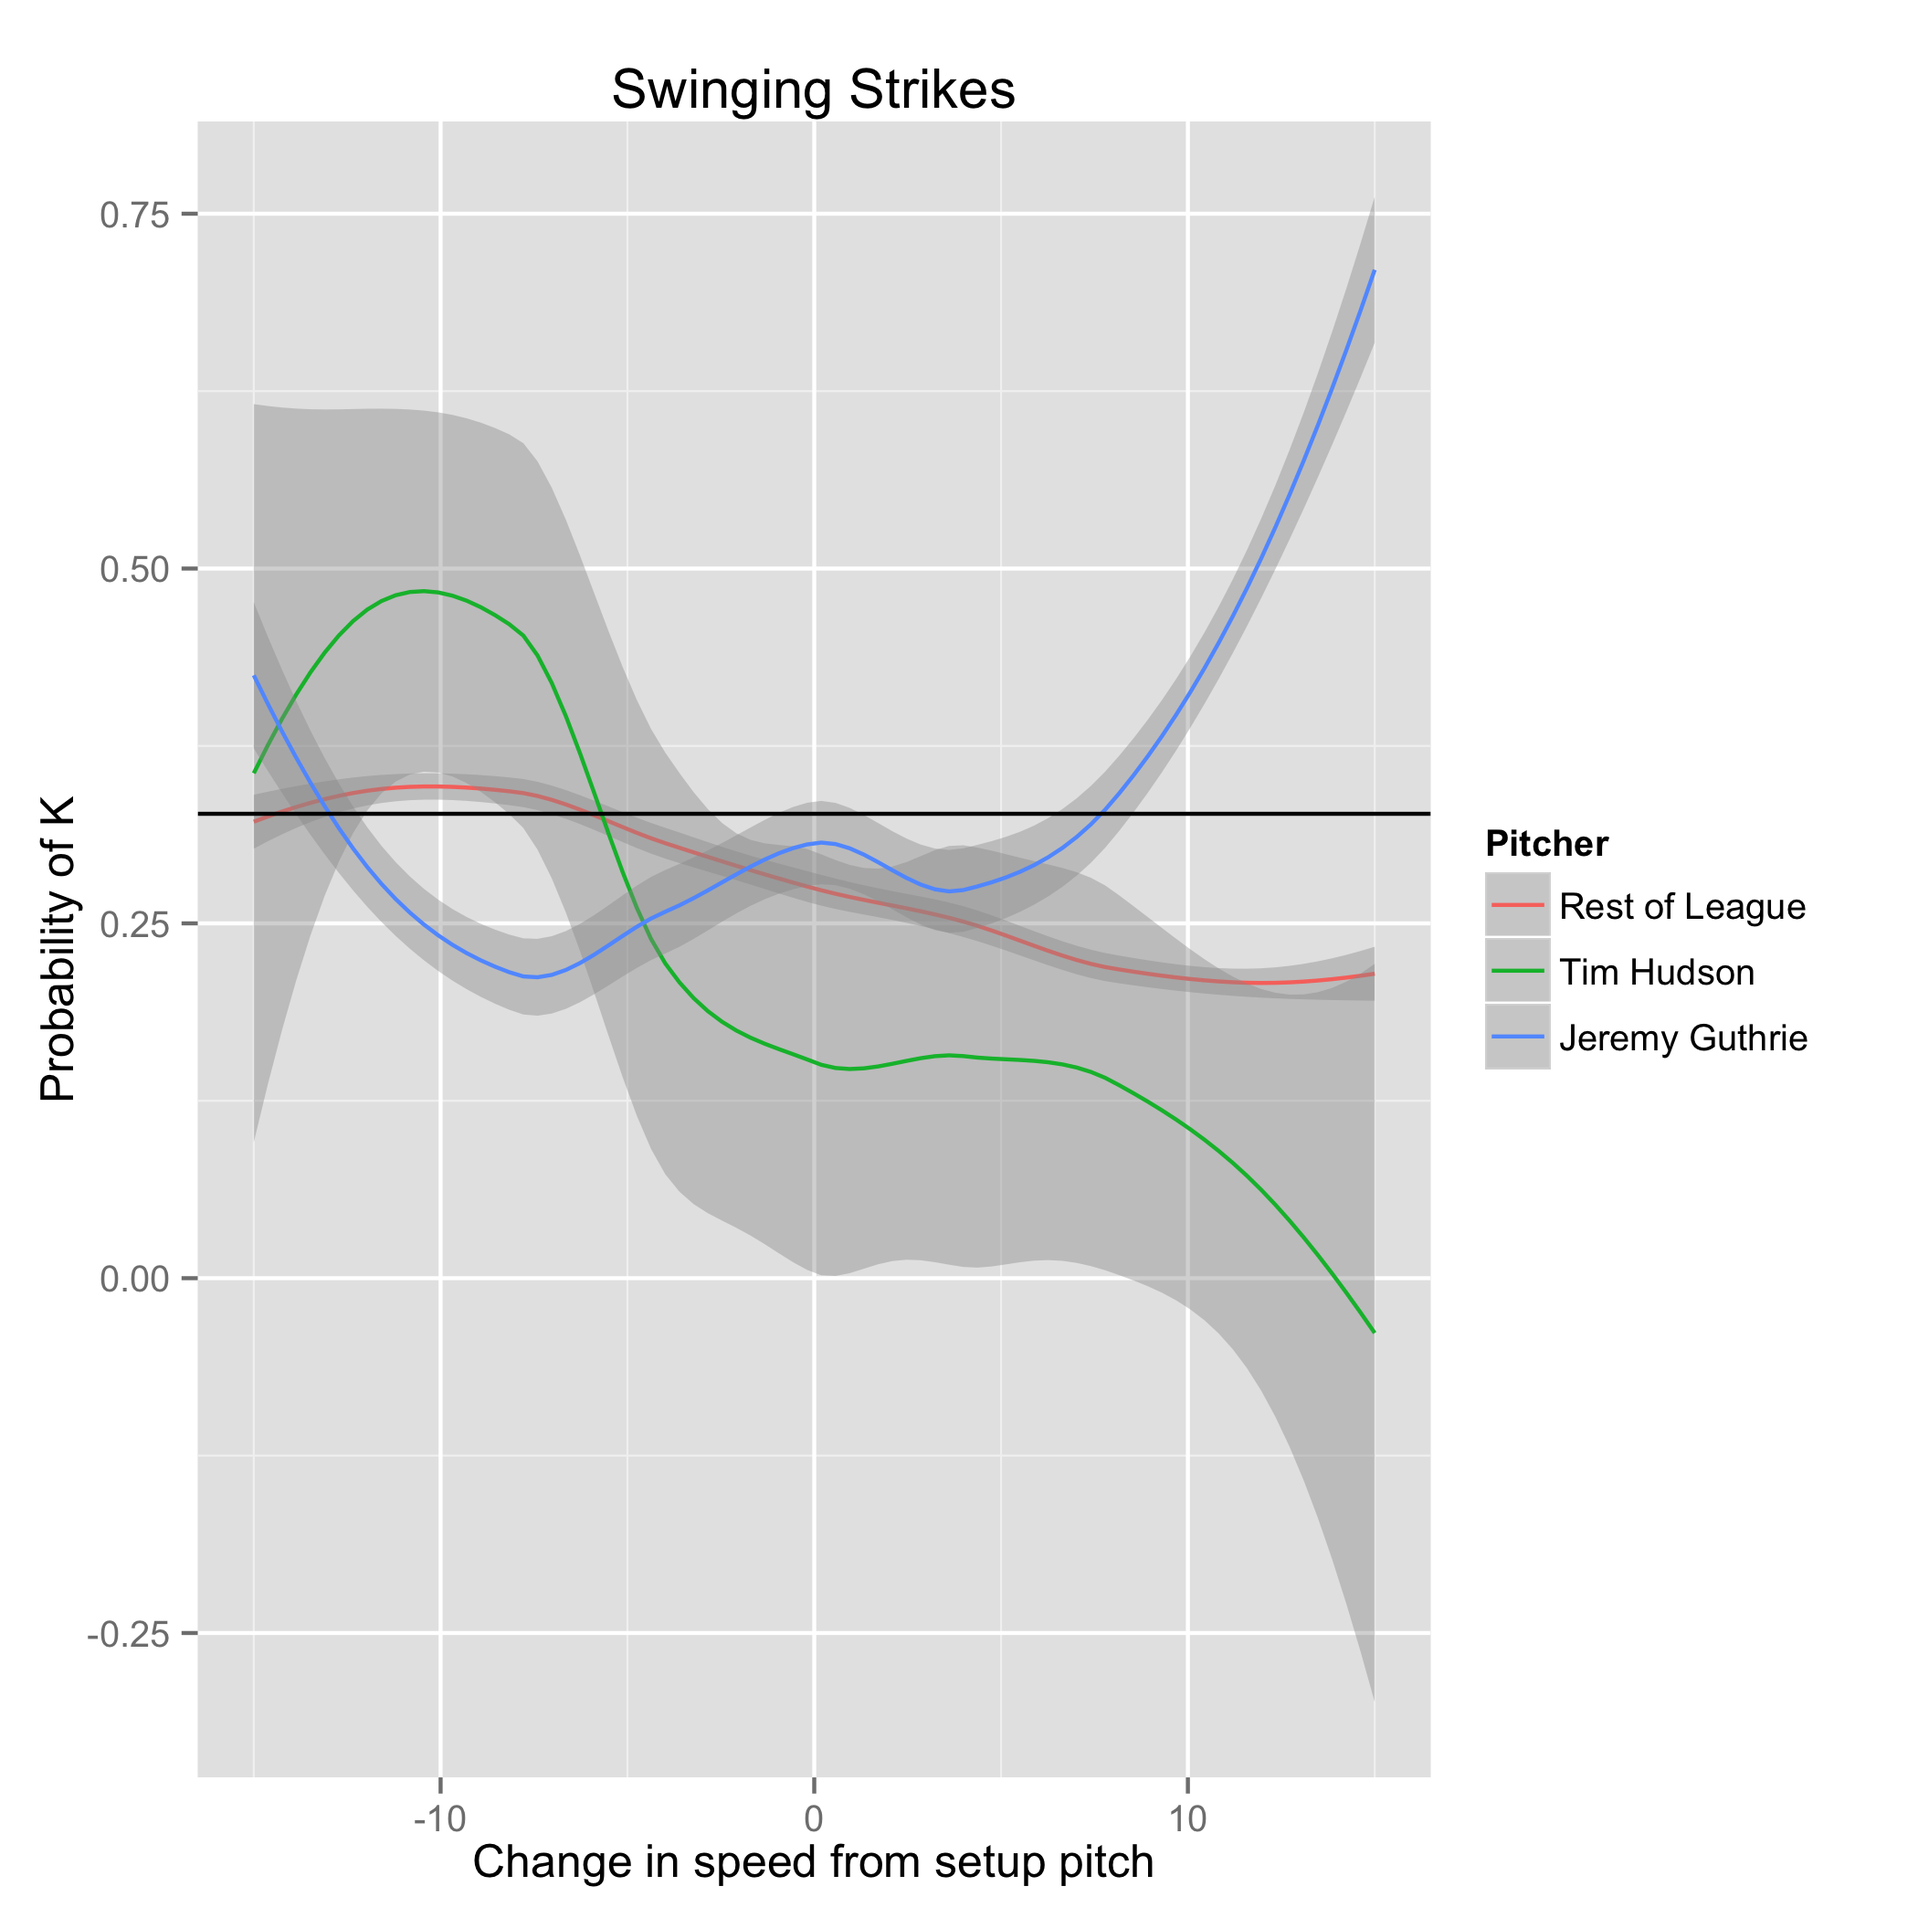
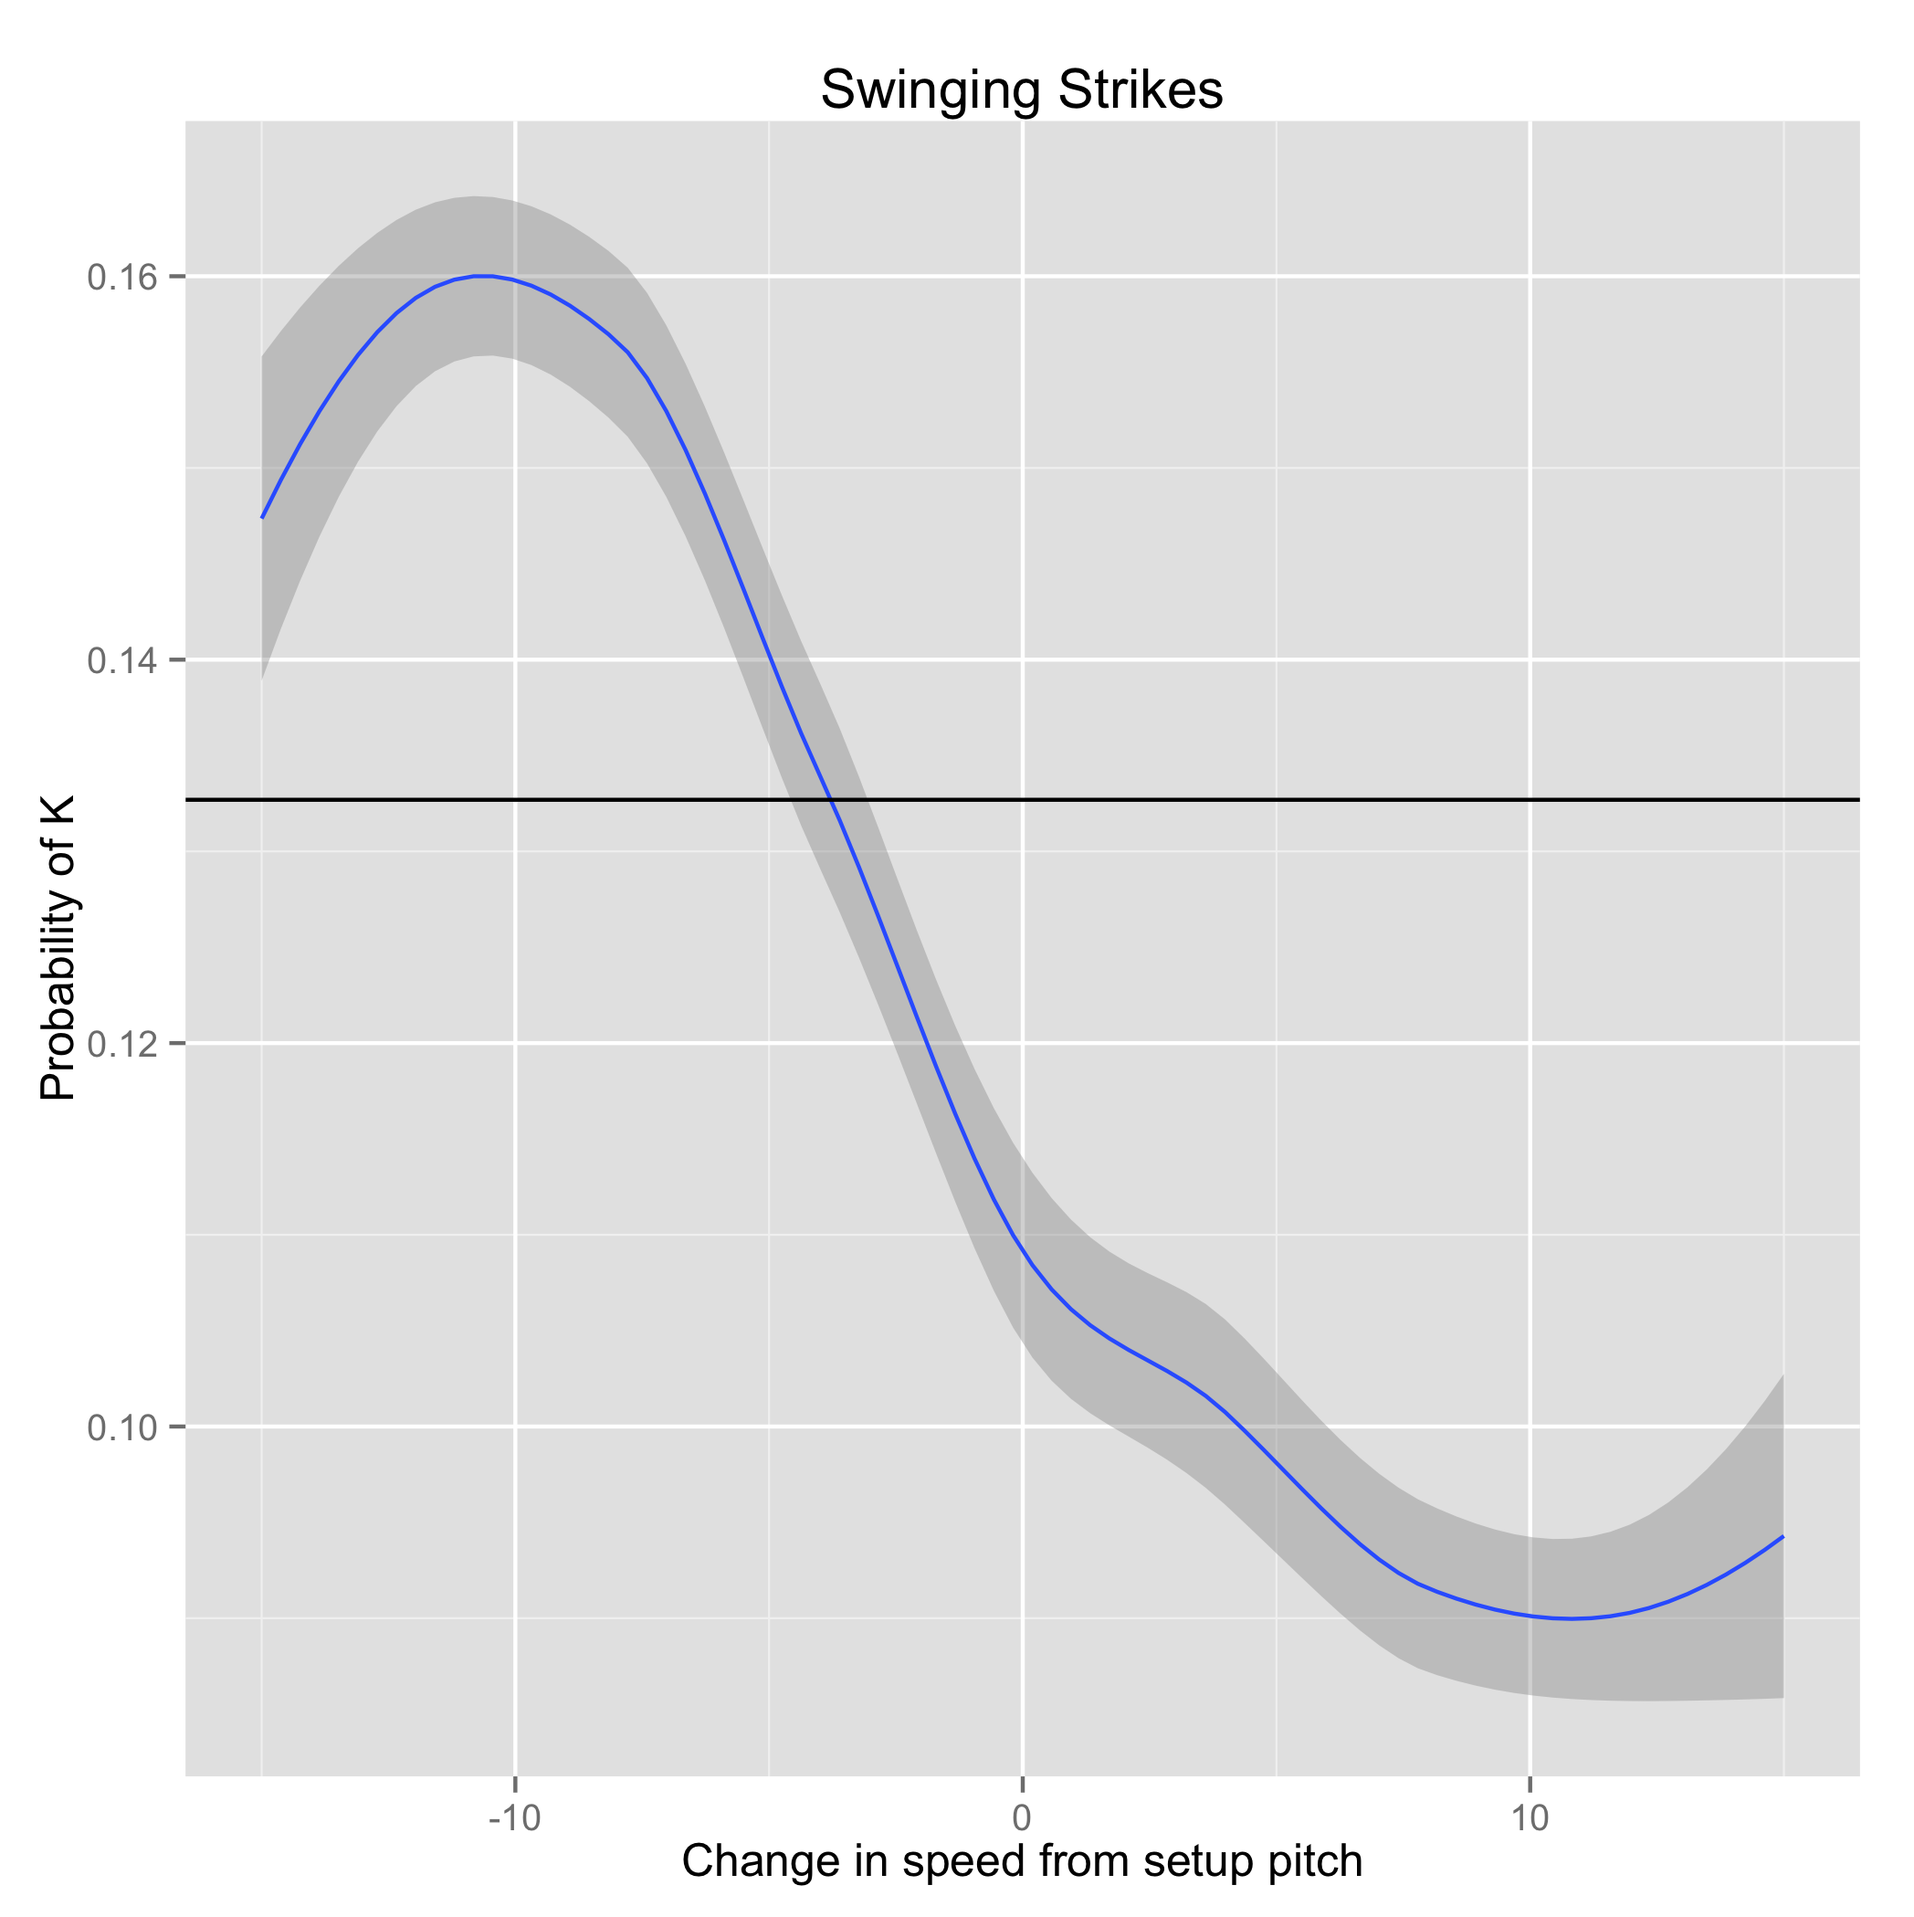
Tweaks to readme.

diff --git a/README.md b/README.md
@@ -19,7 +19,9 @@ This is an unusual strategy to put it mildly. Even in rock paper scissors, where
 
 In this case, Bumgarner knew his opponents tendencies and the psychology of the moment and used that knowledge against him masterfully to get an out without throwing a ball that it was possible to put in play.
 
-Such strategic concerns are an underexplored application of PitchFx data. Each at-bat is not only a sequence of independent pitches, but in fact a whole strategic game between pitcher and batter, which may extend back years. Conventional wisdom says that pitchers are most effective when changing speeds, and forcing the hitter to change his eye level by working inside and outside, and up and down in the zone.
+Such strategic concerns are an underexplored application of PitchFx data. Each at-bat is not only a sequence of independent pitches, but in fact a whole strategic game between pitcher and batter, which may extend back years. Conventional wisdom says that pitchers are most effective when changing speeds, and forcing the hitter to change his eye level by working inside and outside, and up and down in the zone. In fact, OVERALL, this seems to be true. The chart below shows the likelihood of getting a swinging strike based only speed changes, basically the best way to get a swing and miss is to take something off relative to the preceding pitch (ignoring all other factors).
+
+![Chart of effect on speed change](plots/speed_change_swinging.png)
 
 Both the pitcher and batter try to anticipate each others' expectations in order to guess (hitter) or defy (pitcher) expectations of their adversary. Because of this strategic element, the game theory is extremely rich, and pitchers and batters presumably exploit all kinds of information to try and gain an edge in this strategic battle. This information may include, previous at bats against a given adversary, previous pitches in the current at bat, the pitcher's strategy against other hitters. In the Bumgarner vs. Perez atbat, Bumgarner apparently exploited the energy of the scenario, along with an apparently detailed understanding of Perez's tendencies to put away a dangerous hitter with virtually no risk of giving up a hit.
 
@@ -47,6 +49,10 @@ We can do a similar exercise for called strikes, to see if there's any evidence 
 ![Effect of setup pitches on called strike probabilities](plots/called_k_by_pitch_type_setup.png)
 
 In this chart, aside from some obvious data sparsity issues, note, there's not much difference within the columns, meaning pretty much that the pitcher has to get it in the halo around the edges of the strikezone to get a called strike, and once that's accomplished, what the last pitch was doesn't make much difference by itself (this is a case where changing locations, moving up/down in/out, might be more important than pitch-selection alone.
+
+The Maestro
+----------------------------
+Looking here at the overall does shed a little light on how amazing Bumgarner's approach was. Overall, back to back heaters doesn't seem to be a particularly good strategy. Though in this particular case, it obviously was, which is a credit to Bumgarner's mastery of his craft, and perhaps a hint of some of the modeling challenges likely to come up in further work on this data!
 
 What Else To Do
 ----------------------------
